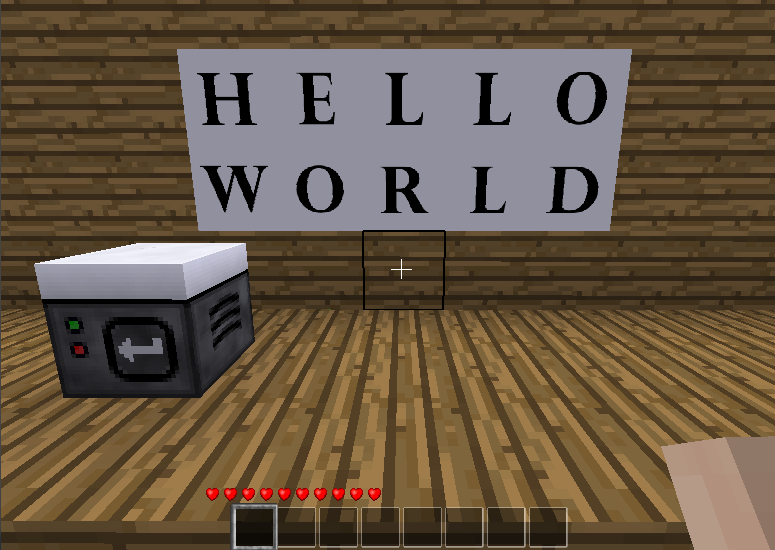
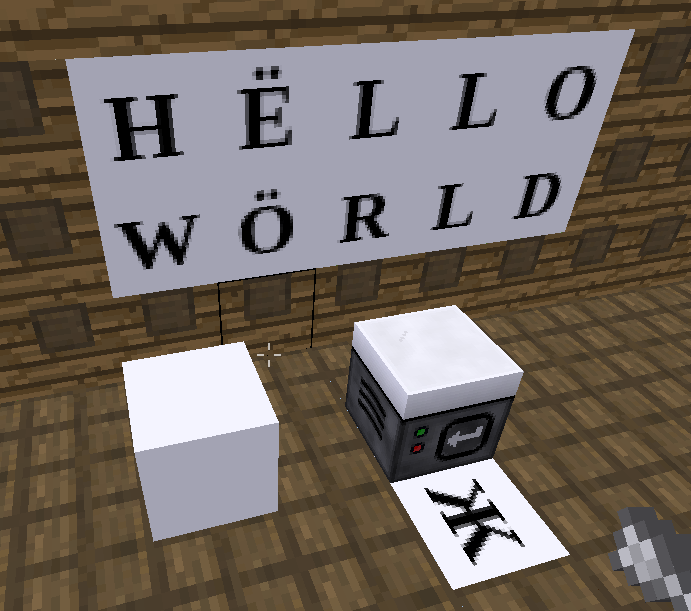
add german letters

diff --git a/gen.js b/gen.js
@@ -20,6 +20,8 @@ var chars = [
   // special chars
   "!", "#", "$", "%", "&", "(", ")", "*", "+", ",", "-", ".", "/", ":", ";",
   "<", "=", ">", "?", "@", '"', "'",
+  // german
+  "Ä", "Ö", "Ü", "ß",
   // cyrillic
   "А", "Б", "В", "Г", "Д", "Е", "Ё", "Ж", "З", "И", "Й", "К", "Л", "М", "Н",
   "О", "П", "Р", "С", "Т", "У", "Ф", "Х", "Ц", "Ч", "Ш", "Щ", "Ъ", "Ы", "Ь",

diff --git a/README.md b/README.md
@@ -1,15 +1,40 @@
 # ehlphabet
-Fork of the original abjphabet mod by ABJ  
-https://forum.minetest.net/viewtopic.php?f=11&t=11744  
-  
-Letter blocks can be created with the Letter Machine or given with /giveme ehlphabet:(ascii decimal)  
-Example: '/giveme ehlphabet:65' will give you a block with the letter 'A' on it.  
-http://www.asciitable.com/  
-  
-Textures were created using Title Wave font by Digital Graphic Labs  
+Fork of the original [abjphabet mod](https://forum.minetest.net/viewtopic.php?f=11&t=11744) by ABJ
+
+![screenshot](screenshot.png)
+
+**Letter Machine Reciepe**|**Letter Machine UI**
+----|----
+![Letter Machine Reciepe](reciepe.png)|![Letter Machine UI](lmui.png)
+
+Letter blocks can be created with the Letter Machine or given with /giveme ehlphabet:(ascii decimal)
+
+Example: `/giveme ehlphabet:65` will give you a block with the letter [**A**] on it.
+http://www.asciitable.com/
+
+For UTF-8 characters add one more identifier /giveme ehlphabet:(first byte decimal)_(second byle decimal)
+
+Example: `/giveme ehlphabet:195_132` will give you a block with the letter [**Ä**] on it.
+http://www.utf8-chartable.de/
+
+## Textures
+
+Textures were generated using [**phantomjs**](http://phantomjs.org/download.html) script "gen.js" included in this repository.
+
+To (re)generate textures run:
+
+    $ phantomjs gen.js
+
+To customize the look and size of letters, you need to know basic HTML and CSS and change it inside "gen.js".
+
+## License
+
 Textures are licensed under CC-BY-SA 3.0
 
+## Changelist
 
-20180124
-patched by Och_Noe to use it as replacement for abjphabet
-(create aliases)
+2018-01-24 patched by Och_Noe to use it as replacement for abjphabet (create aliases)
+
+2018-03-29 support for UTF-8 and cyrillic letters added
+
+2018-03-31 german letters added
